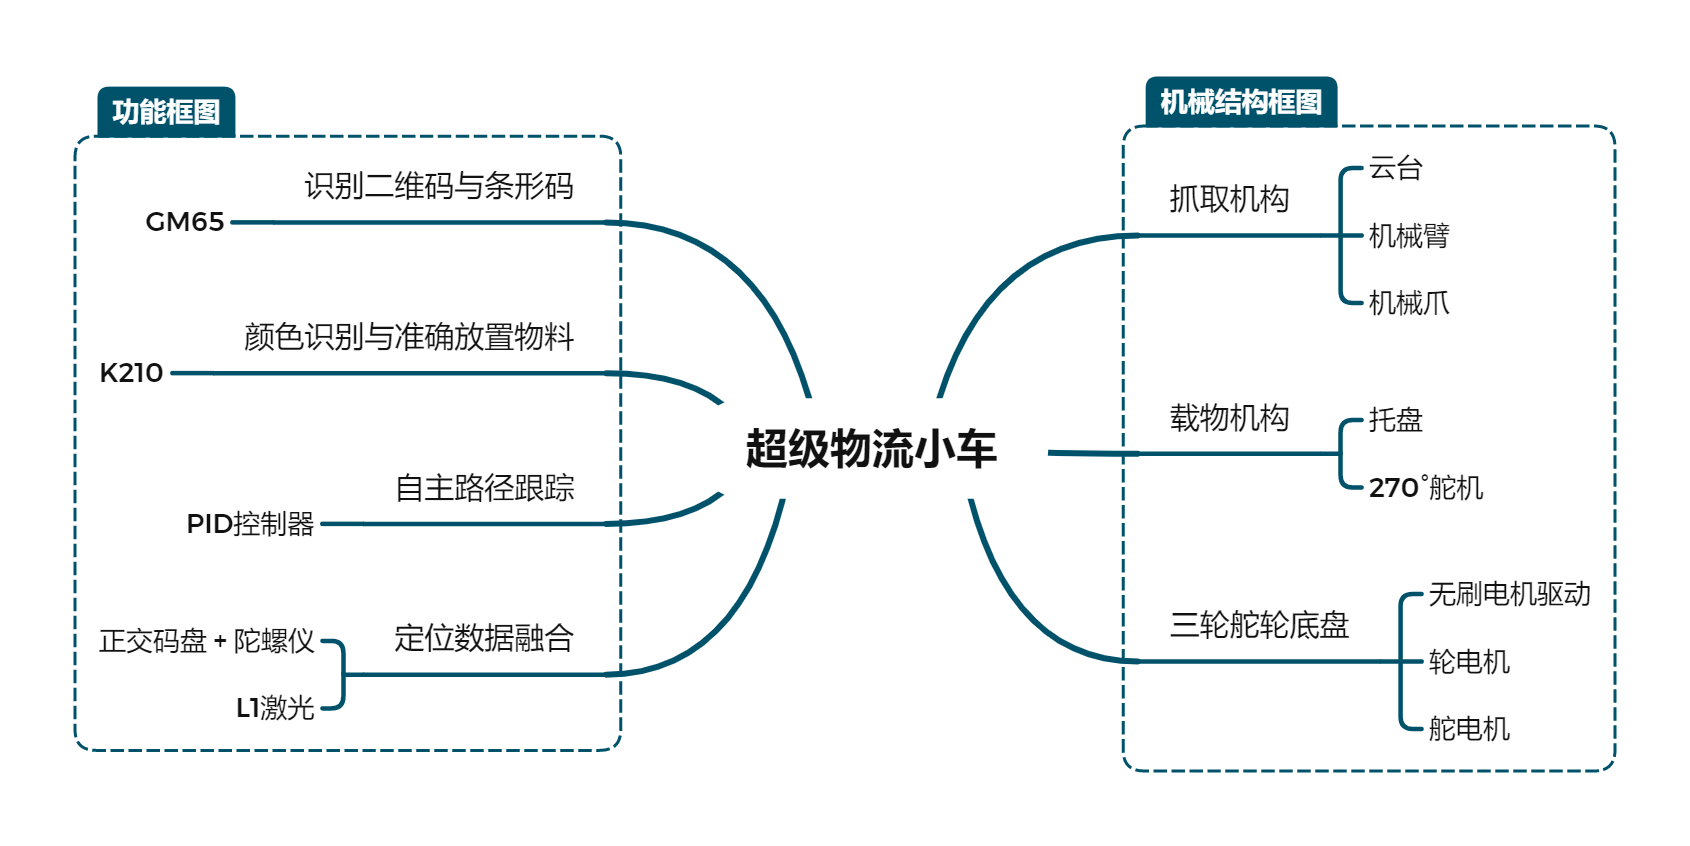
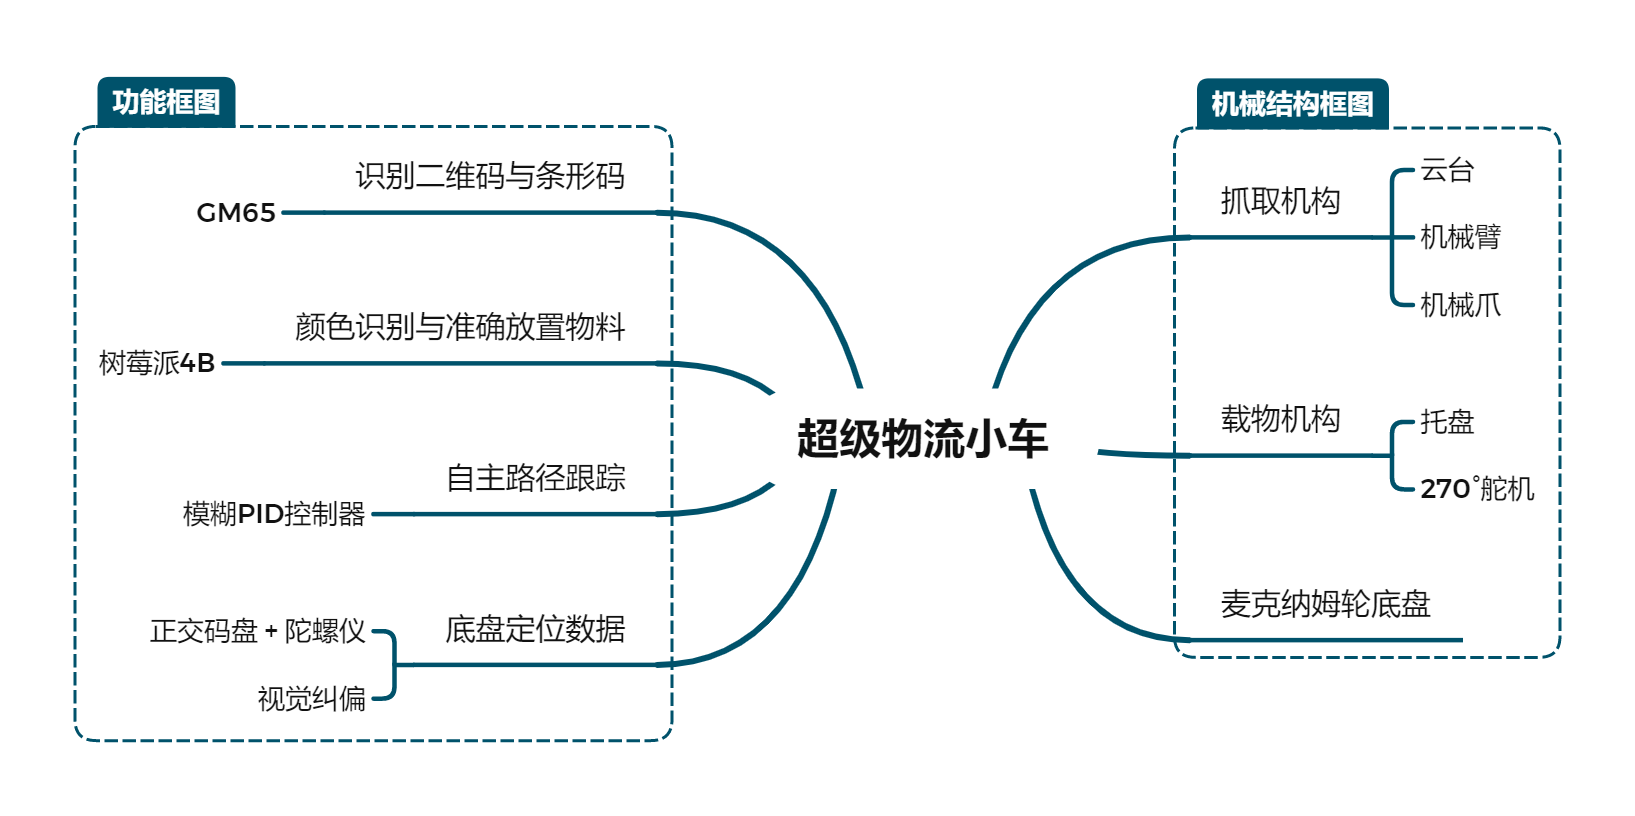
更新Readme.md

diff --git a/README.md b/README.md
@@ -1,9 +1,12 @@
 # 2023_ETC_Code
 
-在比赛结束前，不考虑将此仓库开源。
-
-目前的物流小车，结构/功能框图如图所示：
+物流小车的结构/功能框图如图所示：
 
 ![超级物流小车](./assets/超级物流小车.png)
 
-暂时来讲，需要有4路串口（2个L1激光数据、1个K210、1个GM65），4路PWM输出（1个托盘、2个机械臂、1个机械爪），1路CAN。为了满足如此多的硬件接口要求，选用 RM-A 开发板。
+- 主控板：RoboMatser - A
+- 电源：3S-Lipo
+
+基于Stm32CubeMX。
+
+尽管比赛没有拿到理想的成绩，但本代码运行逻辑清晰、控制效果良好，可基于此代码做二次开发。
